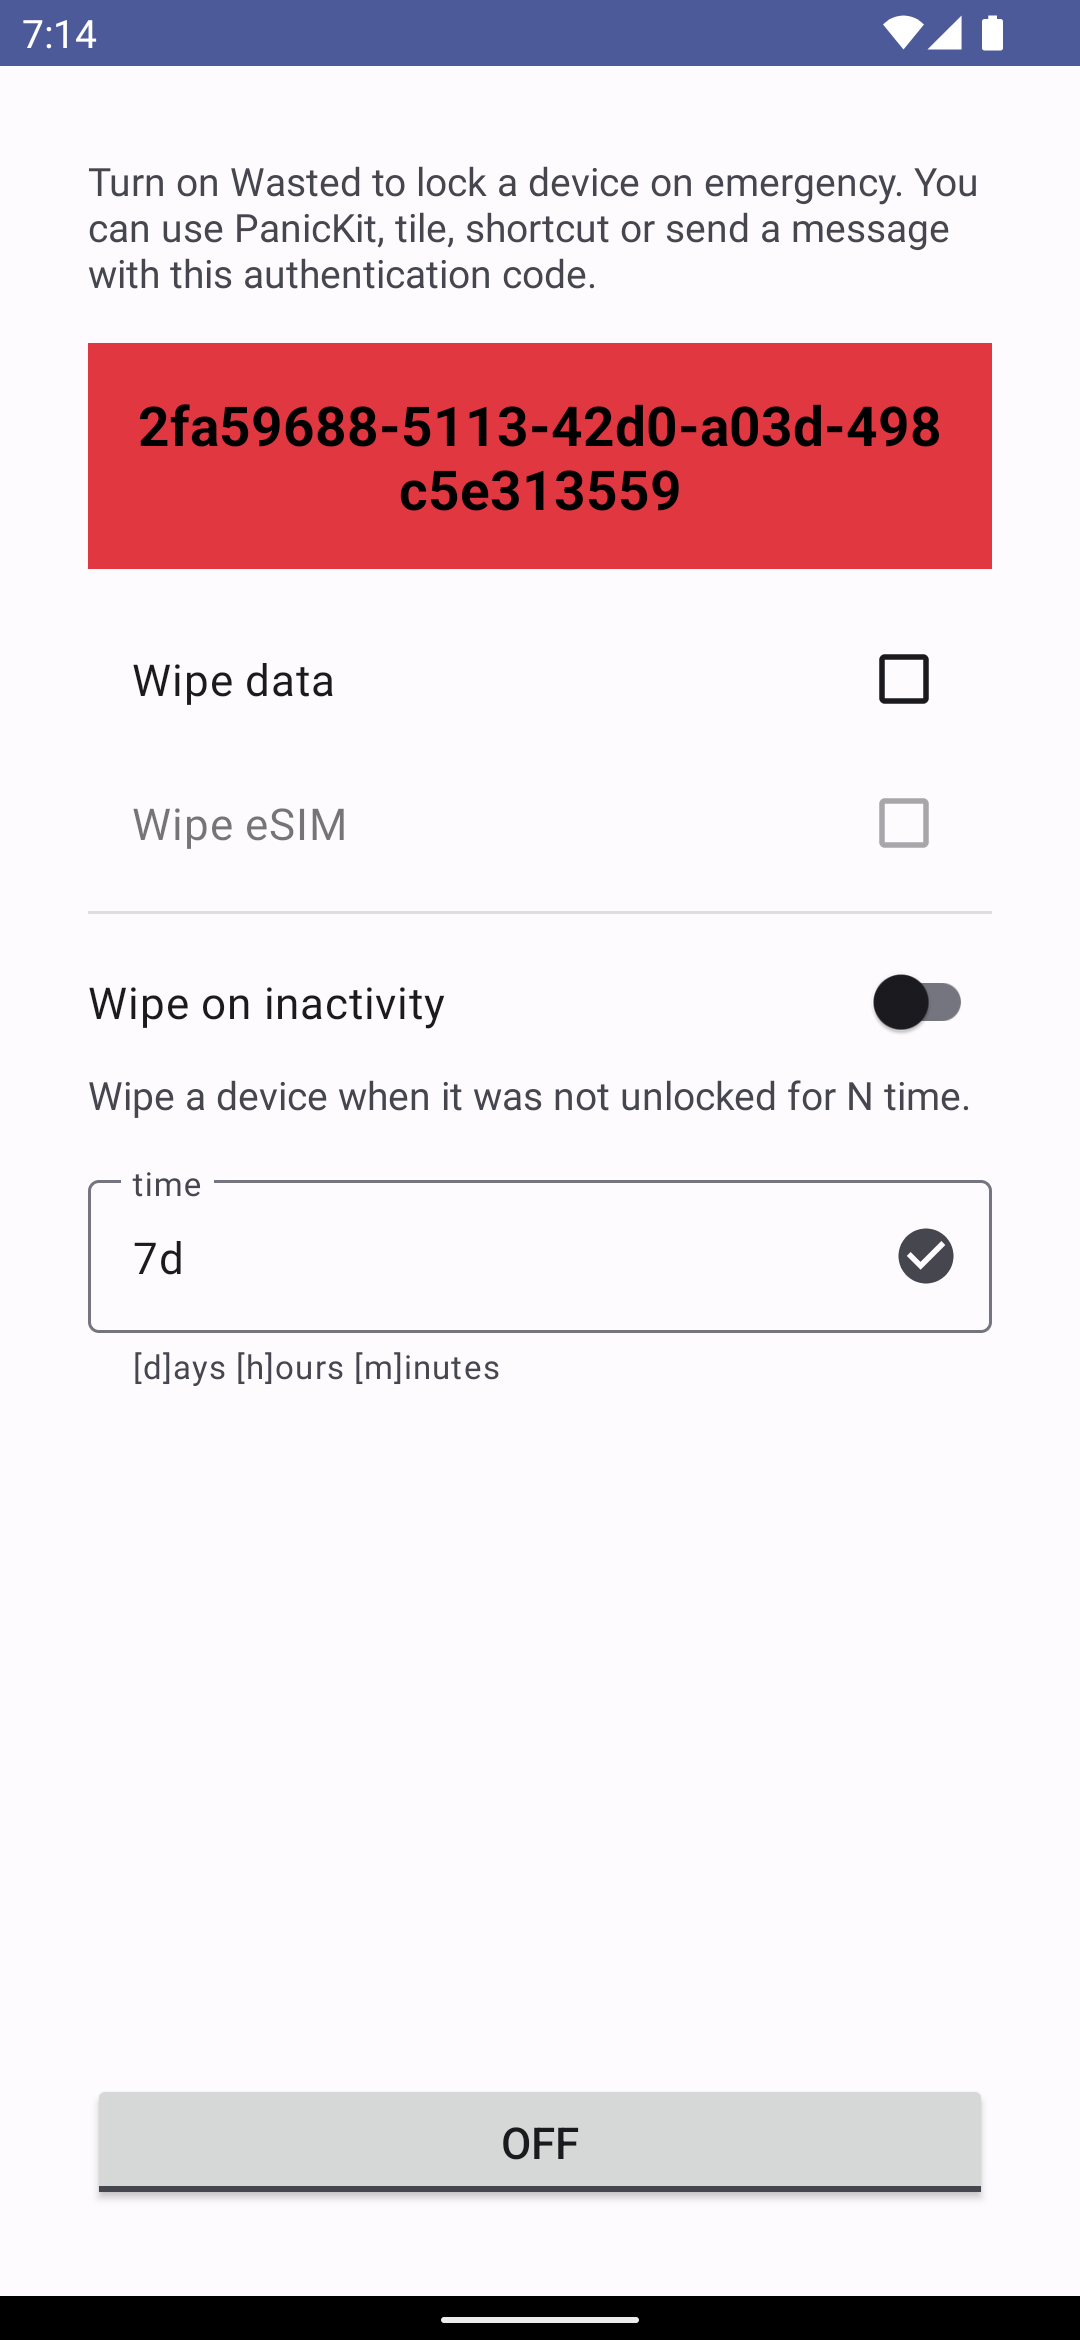
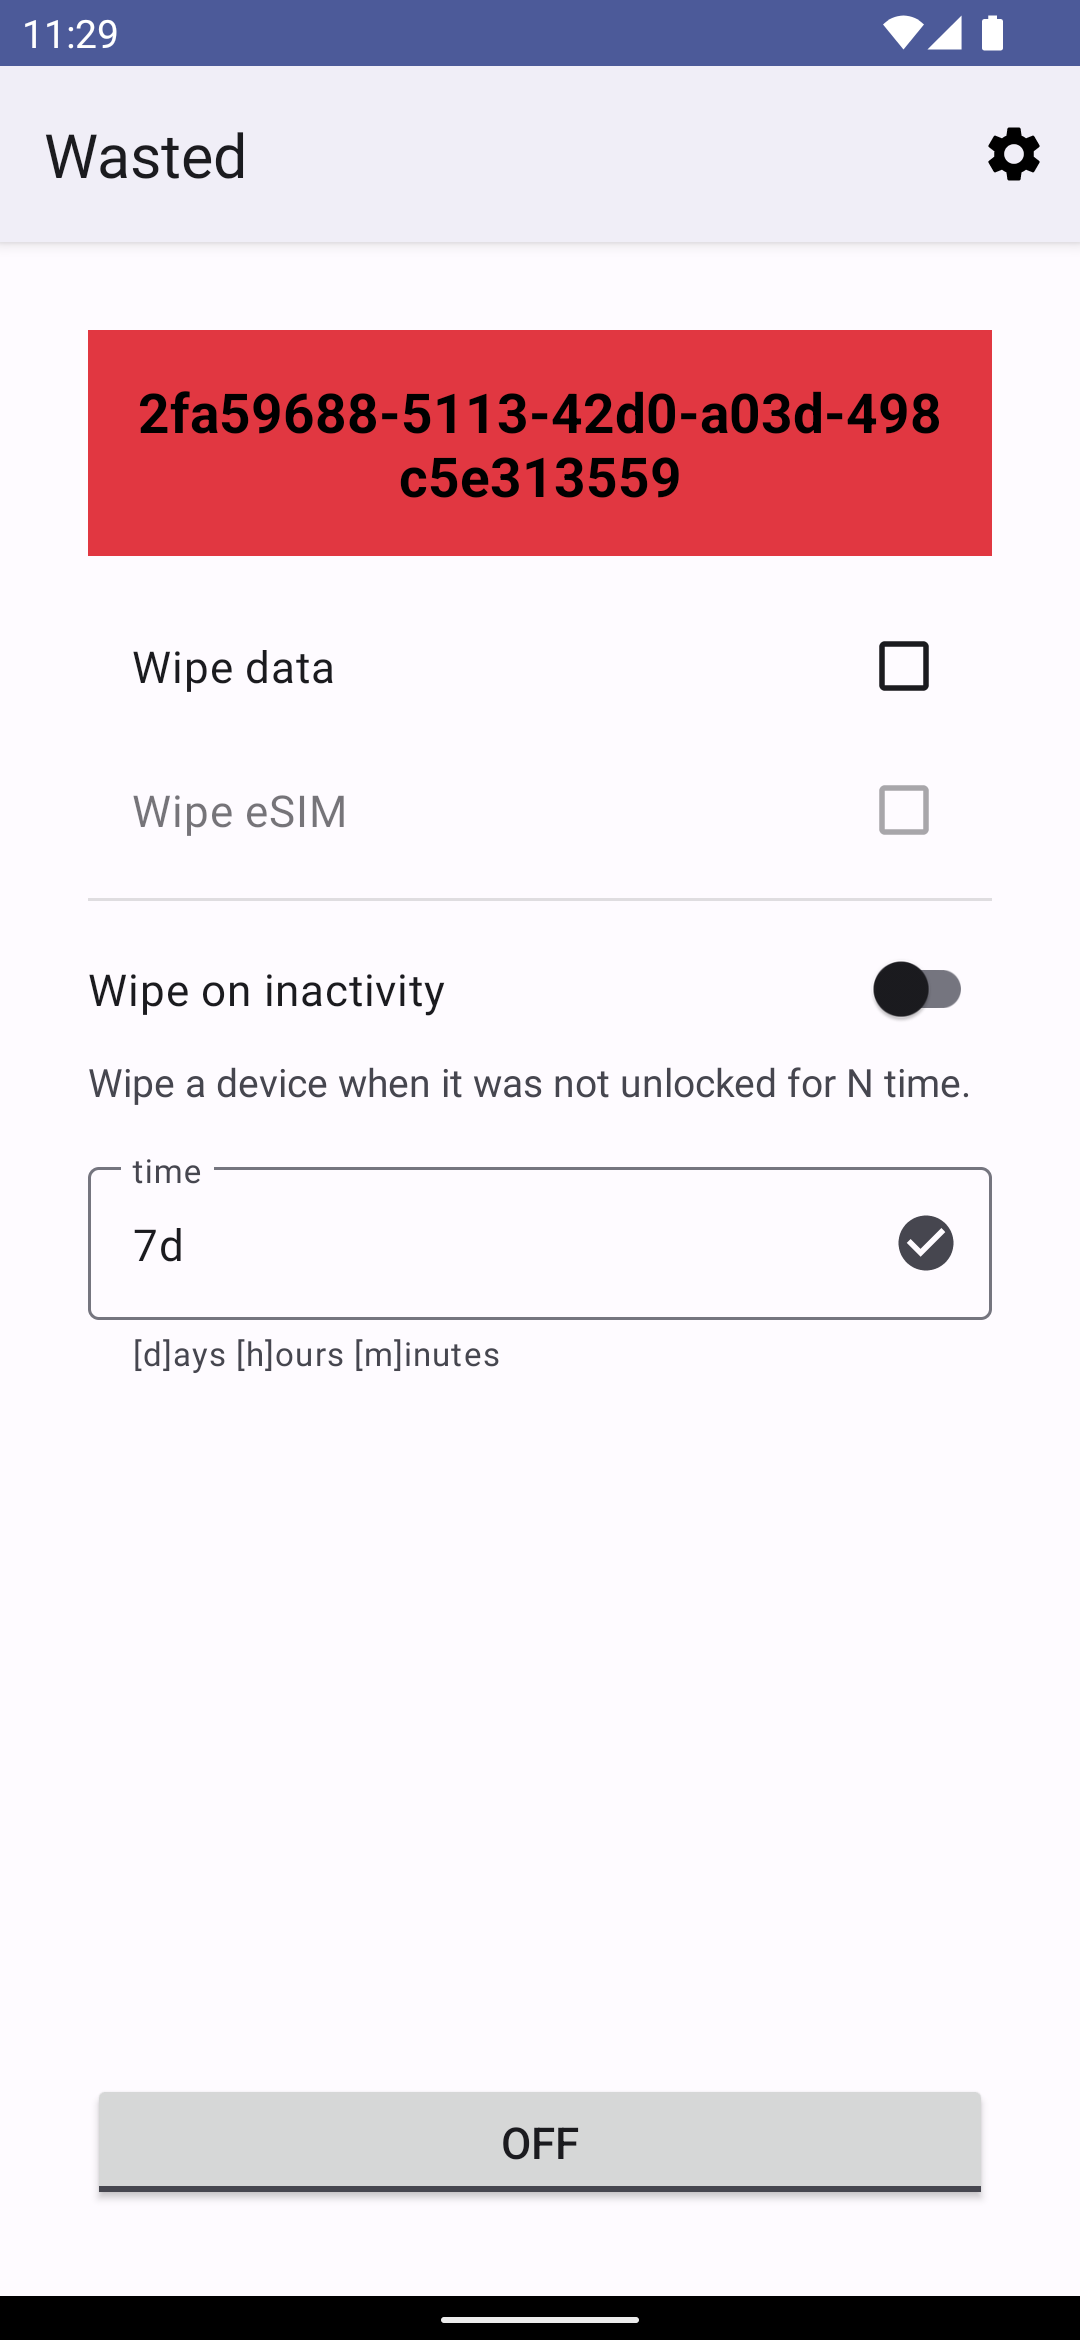
update wipe on inactivity scheduler

diff --git a/app/src/main/java/me/lucky/wasted/MainActivity.kt b/app/src/main/java/me/lucky/wasted/MainActivity.kt
@@ -1,6 +1,5 @@
 package me.lucky.wasted
 
-import android.app.job.JobScheduler
 import android.content.ClipData
 import android.content.ClipboardManager
 import android.content.ComponentName
@@ -8,6 +7,8 @@ import android.content.Intent
 import android.content.pm.PackageManager
 import android.os.Build
 import android.os.Bundle
+import android.view.Menu
+import android.view.MenuItem
 import android.view.View
 import androidx.activity.result.contract.ActivityResultContracts
 import androidx.appcompat.app.AppCompatActivity
@@ -53,6 +54,16 @@ open class MainActivity : AppCompatActivity() {
         setContentView(binding.root)
         init()
         setup()
+    }
+
+    override fun onCreateOptionsMenu(menu: Menu?): Boolean {
+        menuInflater.inflate(R.menu.main, menu)
+        return super.onCreateOptionsMenu(menu)
+    }
+
+    override fun onOptionsItemSelected(item: MenuItem): Boolean {
+        if (item.itemId == R.id.triggers) showTriggers()
+        return super.onOptionsItemSelected(item)
     }
 
     override fun onStart() {
@@ -116,9 +127,6 @@ open class MainActivity : AppCompatActivity() {
 
     private fun setup() {
         binding.apply {
-            authenticationCode.setOnClickListener {
-                showTriggersSettings()
-            }
             authenticationCode.setOnLongClickListener {
                 copyAuthenticationCode()
                 true
@@ -156,10 +164,6 @@ open class MainActivity : AppCompatActivity() {
                     MODIFIER_MINUTES -> i
                     else -> return@setEndIconOnClickListener
                 }
-                if (prefs.isEnabled && prefs.isWipeOnInactivity) {
-                    if (job.schedule() == JobScheduler.RESULT_FAILURE)
-                        showWipeJobScheduleFailedPopup()
-                }
             }
             toggle.setOnCheckedChangeListener { _, isChecked ->
                 if (isChecked) requestAdmin() else setOff()
@@ -191,7 +195,7 @@ open class MainActivity : AppCompatActivity() {
         }, CLIPBOARD_CLEAR_DELAY)
     }
 
-    private fun showTriggersSettings() {
+    private fun showTriggers() {
         var triggers = prefs.triggers
         val values = Trigger.values().toMutableList()
         val strings = resources.getStringArray(R.array.triggers).toMutableList()
@@ -248,14 +252,6 @@ open class MainActivity : AppCompatActivity() {
         updateCodeColorState()
     }
 
-    private fun showWipeJobScheduleFailedPopup() {
-        Snackbar.make(
-            binding.toggle,
-            R.string.wipe_job_schedule_failed_popup,
-            Snackbar.LENGTH_LONG,
-        ).show()
-    }
-
     private fun setOff() {
         prefs.isEnabled = false
         setWipeOnInactivityState(false)
@@ -284,7 +280,7 @@ open class MainActivity : AppCompatActivity() {
     }
 
     private fun setWipeOnInactivityState(value: Boolean) {
-        job.setState(value)
+        if (!value) job.cancel()
         setForegroundState(value)
     }
 

diff --git a/app/src/main/java/me/lucky/wasted/ForegroundService.kt b/app/src/main/java/me/lucky/wasted/ForegroundService.kt
@@ -15,7 +15,7 @@ class ForegroundService : Service() {
         private const val NOTIFICATION_ID = 1000
     }
 
-    private val unlockReceiver = UnlockReceiver()
+    private val lockReceiver = LockReceiver()
 
     override fun onCreate() {
         super.onCreate()
@@ -28,11 +28,14 @@ class ForegroundService : Service() {
     }
 
     private fun init() {
-        registerReceiver(unlockReceiver, IntentFilter(Intent.ACTION_USER_PRESENT))
+        registerReceiver(lockReceiver, IntentFilter().apply {
+            addAction(Intent.ACTION_USER_PRESENT)
+            addAction(Intent.ACTION_SCREEN_OFF)
+        })
     }
 
     private fun deinit() {
-        unregisterReceiver(unlockReceiver)
+        unregisterReceiver(lockReceiver)
     }
 
     override fun onStartCommand(intent: Intent?, flags: Int, startId: Int): Int {
@@ -52,12 +55,24 @@ class ForegroundService : Service() {
         return null
     }
 
-    private class UnlockReceiver : BroadcastReceiver() {
+    private class LockReceiver : BroadcastReceiver() {
+        private var unlocked = false
+
         override fun onReceive(context: Context?, intent: Intent?) {
-            if (intent?.action != Intent.ACTION_USER_PRESENT ||
-                context?.getSystemService(KeyguardManager::class.java)?.isDeviceSecure != true ||
-                !Preferences(context).isWipeOnInactivity) return
-            Thread(Runner(context, goAsync())).start()
+            if (!Preferences(context ?: return).isWipeOnInactivity) return
+            when (intent?.action) {
+                Intent.ACTION_USER_PRESENT -> {
+                    if (context.getSystemService(KeyguardManager::class.java)
+                            ?.isDeviceSecure != true) return
+                    unlocked = true
+                    WipeJobManager(context).cancel()
+                }
+                Intent.ACTION_SCREEN_OFF -> {
+                    if (!unlocked) return
+                    unlocked = false
+                    Thread(Runner(context, goAsync())).start()
+                }
+            }
         }
 
         private class Runner(

diff --git a/app/src/main/java/me/lucky/wasted/DeviceAdminManager.kt b/app/src/main/java/me/lucky/wasted/DeviceAdminManager.kt
@@ -42,8 +42,4 @@ class DeviceAdminManager(private val ctx: Context) {
     fun makeRequestIntent() =
         Intent(DevicePolicyManager.ACTION_ADD_DEVICE_ADMIN)
             .putExtra(DevicePolicyManager.EXTRA_DEVICE_ADMIN, deviceAdmin)
-            .putExtra(
-                DevicePolicyManager.EXTRA_ADD_EXPLANATION,
-                ctx.getString(R.string.device_admin_description),
-            )
 }

diff --git a/app/src/main/java/me/lucky/wasted/WipeJobManager.kt b/app/src/main/java/me/lucky/wasted/WipeJobManager.kt
@@ -23,10 +23,5 @@ class WipeJobManager(private val ctx: Context) {
         ) ?: JobScheduler.RESULT_FAILURE
     }
 
-    fun setState(value: Boolean): Boolean {
-        if (value) {
-            if (schedule() == JobScheduler.RESULT_FAILURE) return false
-        } else { scheduler?.cancel(JOB_ID) }
-        return true
-    }
+    fun cancel() = scheduler?.cancel(JOB_ID)
 }
